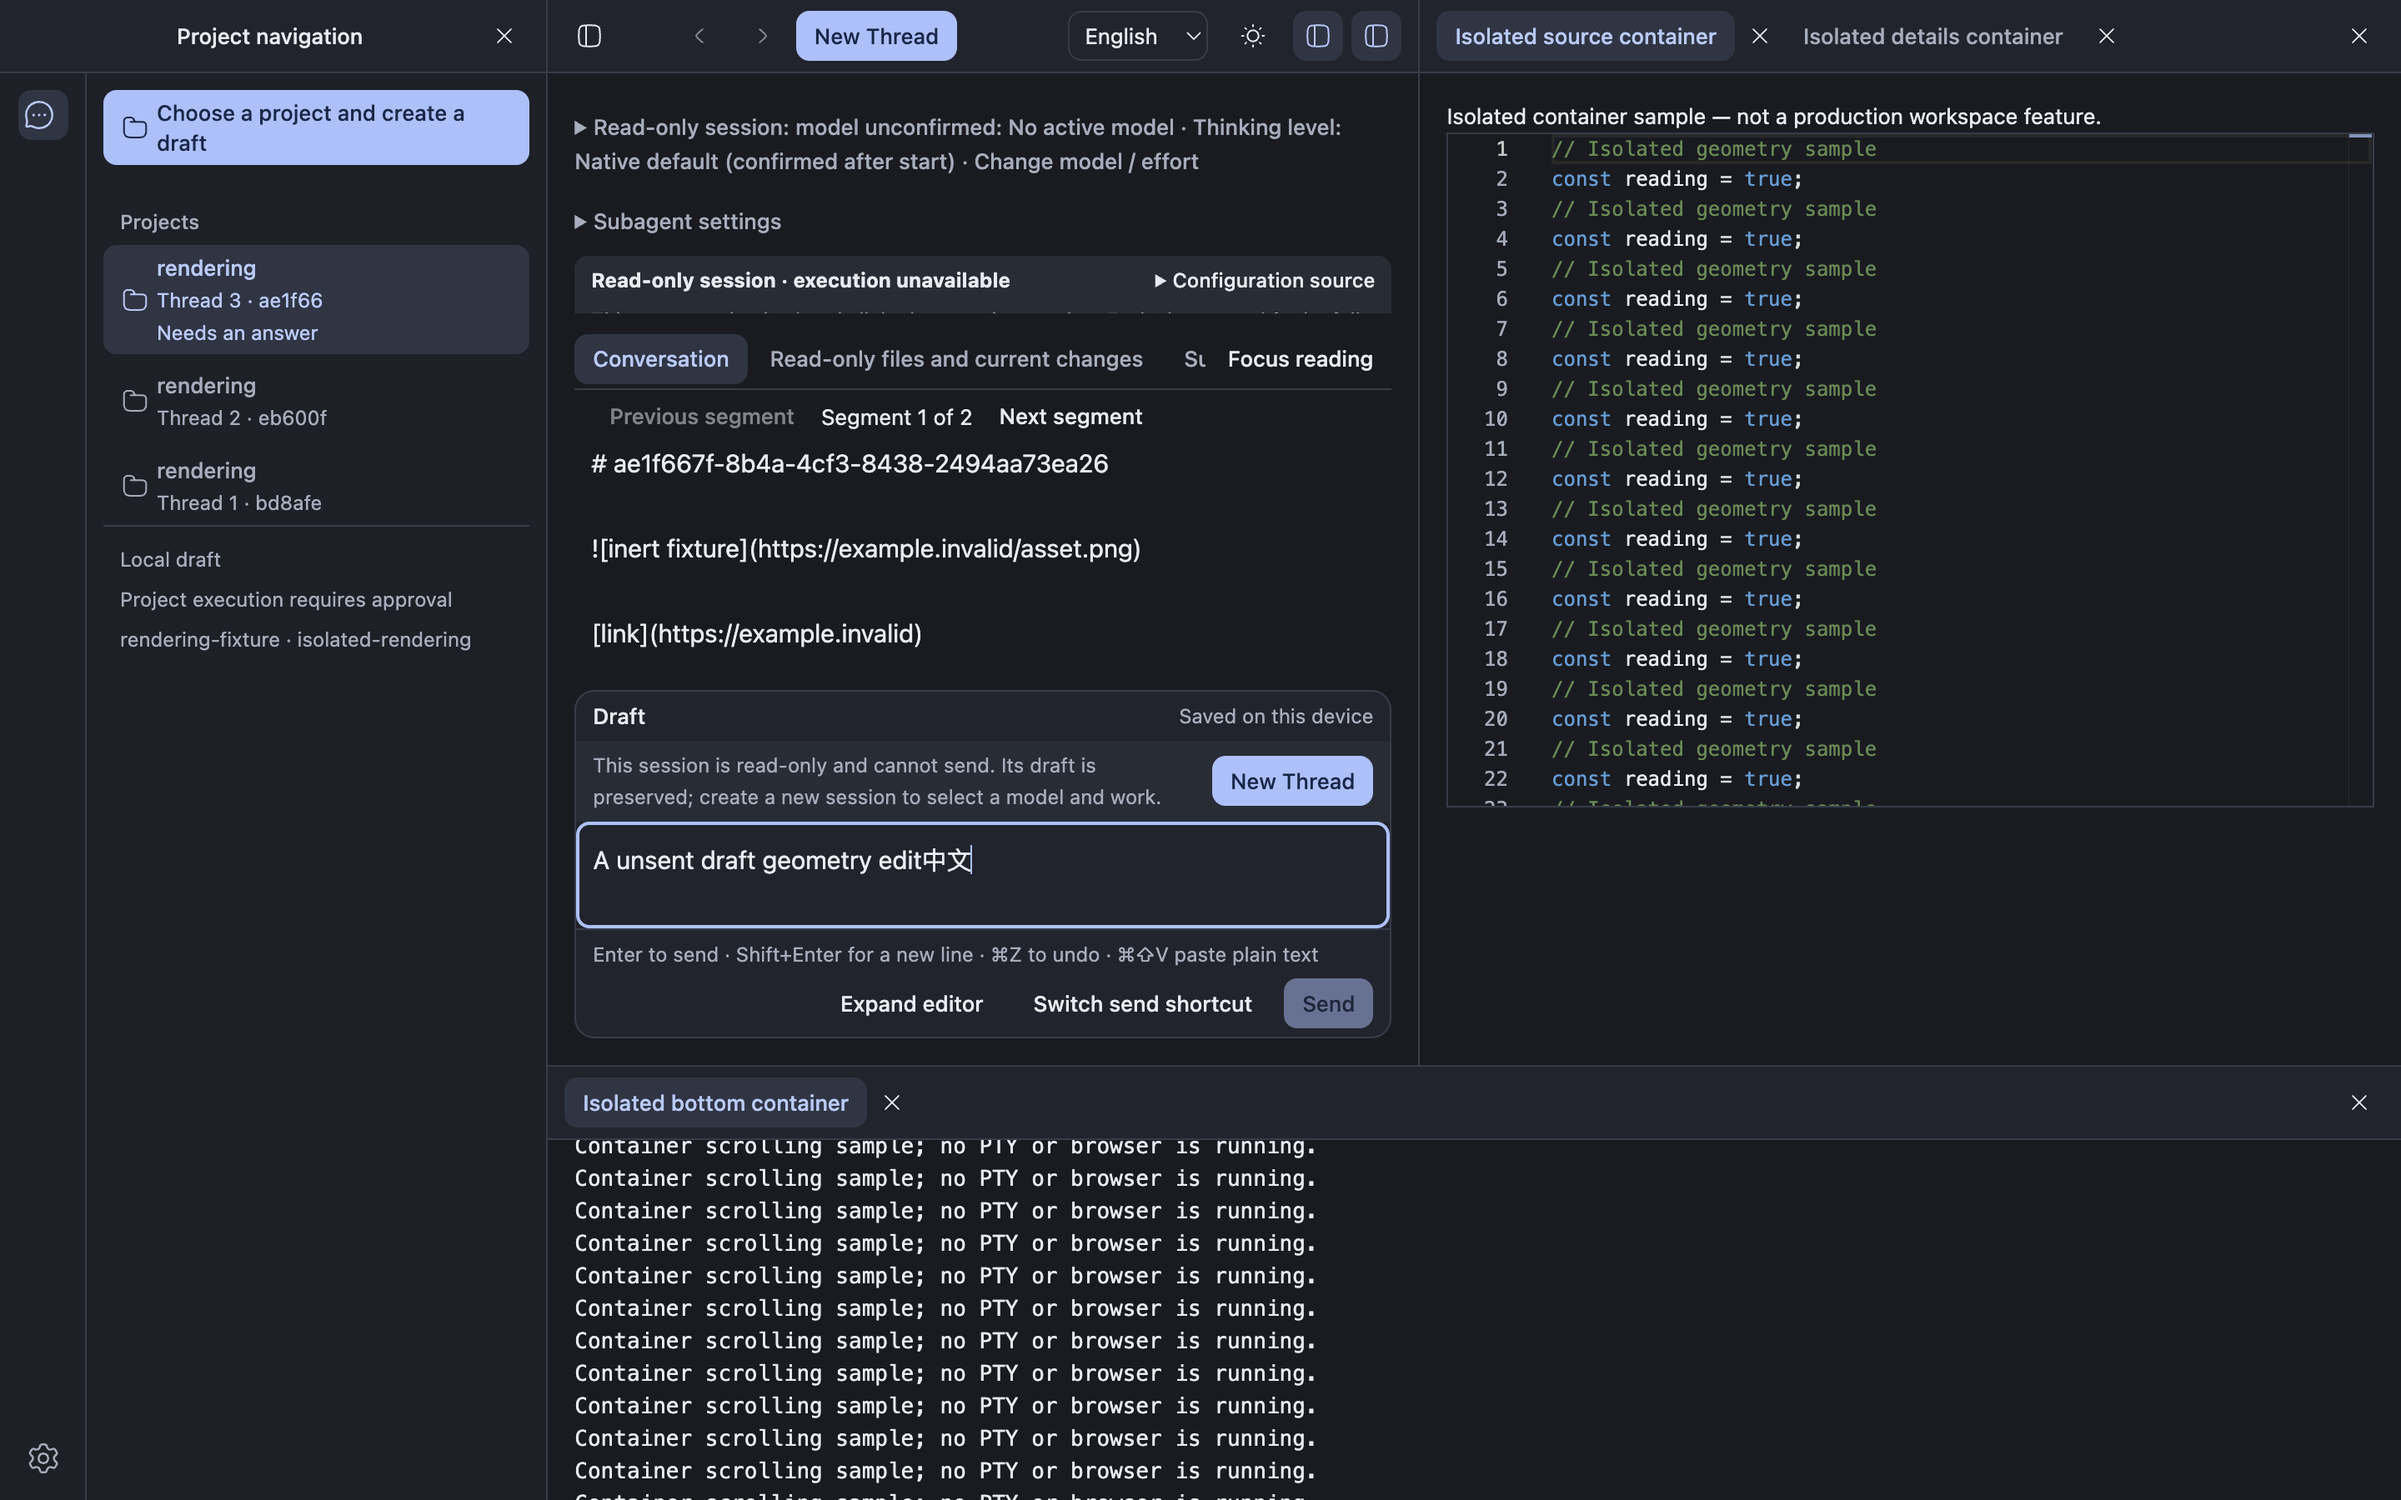
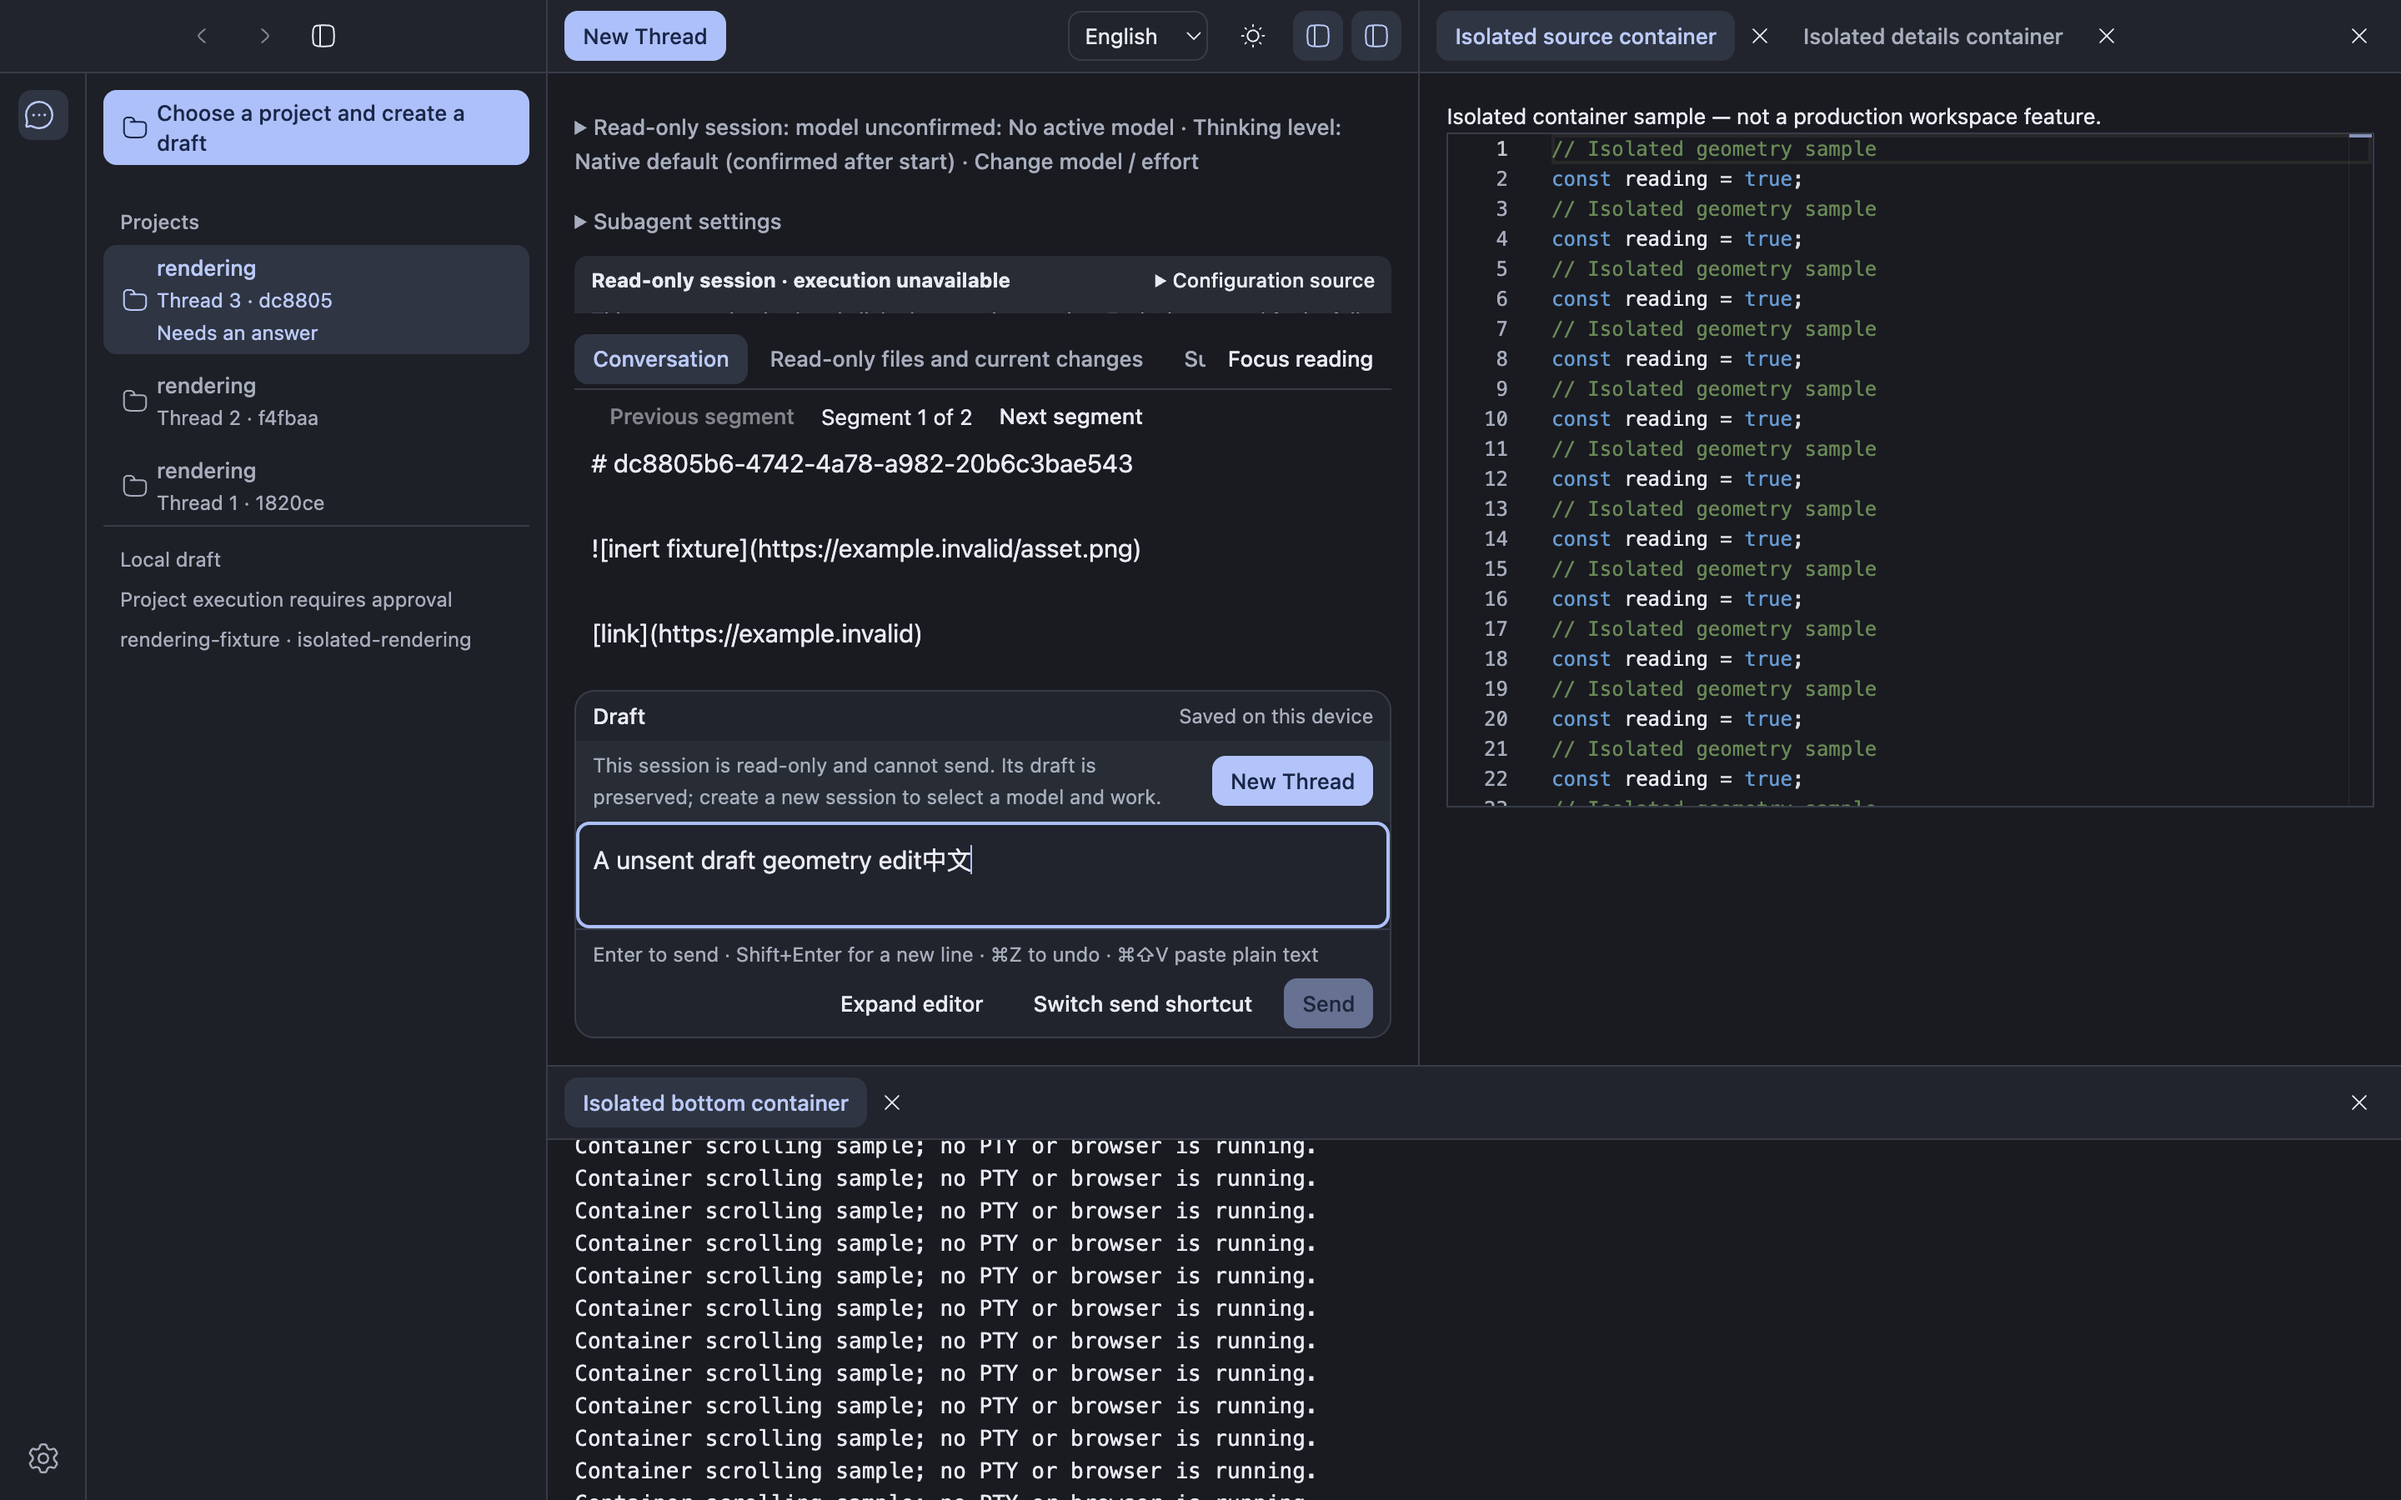
fix(workbench): place navigation beside macOS window controls

diff --git a/src/app/renderer/shell/layout/workbench-frame.tsx b/src/app/renderer/shell/layout/workbench-frame.tsx
@@ -37,6 +37,7 @@ export function WorkbenchFrame({
   settingsNavigation,
   settings,
   toolbar,
+  navigationControls,
   children,
   workspace,
   bottom,
@@ -46,6 +47,7 @@ export function WorkbenchFrame({
   settingsNavigation: ReactNode;
   settings: ReactNode;
   toolbar: ReactNode;
+  navigationControls: ReactNode;
   children: ReactNode;
   workspace?: WorkspaceHost;
   bottom?: WorkspaceHost;
@@ -160,6 +162,20 @@ export function WorkbenchFrame({
       target?.focus({ preventScroll: true });
     });
   };
+  const navigation = (
+    <div className="header-navigation">
+      {navigationControls}
+      <IconButton
+        ref={navigationTrigger}
+        label={t("app.layout.sidebarToggle")}
+        variant="ghost"
+        aria-expanded={geometry.sidebar.visible || overlay}
+        onClick={toggleSidebar}
+      >
+        <SidebarIcon />
+      </IconButton>
+    </div>
+  );
   return (
     <ConversationVisibilityContext value={conversation}>
       <div
@@ -221,20 +237,13 @@ export function WorkbenchFrame({
           label={t("app.layout.sidebarResize")}
           onCommit={commitLeft}
           auxiliary={
-            <aside className="primary-sidebar" data-layout-region="sidebar">
+            <aside
+              className="primary-sidebar"
+              data-layout-region="sidebar"
+              aria-label={t("app.layout.sidebar")}
+            >
               <div className="panel-header">
-                <strong>
-                  {settingsOpen
-                    ? t("app.layout.settings")
-                    : t("app.layout.sidebar")}
-                </strong>
-                <IconButton
-                  label={t("app.layout.close")}
-                  variant="ghost"
-                  onClick={() => model.toggle("sidebar")}
-                >
-                  <CloseIcon />
-                </IconButton>
+                {geometry.sidebar.visible && navigation}
               </div>
               <div className="sidebar-scroll">{sidebarContent}</div>
             </aside>
@@ -284,15 +293,7 @@ export function WorkbenchFrame({
             >
               <div className="conversation-surface">
                 <div className="panel-header conversation-header">
-                  <IconButton
-                    ref={navigationTrigger}
-                    label={t("app.layout.sidebarToggle")}
-                    variant="ghost"
-                    aria-expanded={geometry.sidebar.visible || overlay}
-                    onClick={toggleSidebar}
-                  >
-                    <SidebarIcon />
-                  </IconButton>
+                  {!geometry.sidebar.visible && navigation}
                   {toolbar}
                   {!!workspace?.tabs.length && (
                     <IconButton

diff --git a/src/app/renderer/shell/preference-toolbar.tsx b/src/app/renderer/shell/preference-toolbar.tsx
@@ -10,6 +10,14 @@ import type { AppModel } from "../wiring/model";
 import { ConversationVisibilityContext } from "./layout/conversation-visibility";
 import { NavigationHistory } from "./navigation-history";
 
+export function ThreadNavigationControls({ model }: { model: AppModel }) {
+  const busy = useStore(
+    model.stateStore,
+    (state) => state.kind === "ready" && state.threadTransition === "unknown",
+  );
+  return <NavigationHistory disabled={busy} />;
+}
+
 export function PreferenceToolbar({ model }: { model: AppModel }) {
   const { reveal } = useContext(ConversationVisibilityContext);
   const hasThread = useStore(
@@ -29,7 +37,6 @@ export function PreferenceToolbar({ model }: { model: AppModel }) {
   );
   return (
     <header className="toolbar">
-      <NavigationHistory disabled={busy} />
       <Button
         variant="default"
         disabled={busy || !hasThread}

diff --git a/src/app/renderer/shell/application-layout.tsx b/src/app/renderer/shell/application-layout.tsx
@@ -15,7 +15,10 @@ import {
 import { Diagnostics } from "./diagnostics";
 import { WorkbenchHostsContext } from "./layout/hosts-context";
 import { WorkbenchFrame } from "./layout/workbench-frame";
-import { PreferenceToolbar } from "./preference-toolbar";
+import {
+  PreferenceToolbar,
+  ThreadNavigationControls,
+} from "./preference-toolbar";
 import { ProjectThreads } from "./project-threads";
 import { ThreadNotice } from "./thread-notice";
 
@@ -77,6 +80,7 @@ function ReadyWorkbench({ model, children }: ApplicationLayoutProps) {
           </>
         }
         toolbar={<PreferenceToolbar model={model} />}
+        navigationControls={<ThreadNavigationControls model={model} />}
         settingsNavigation={<SettingsNavigation />}
         settings={<SettingsSurface model={model} />}
       >

diff --git a/src/app/renderer/styles/workbench.css b/src/app/renderer/styles/workbench.css
@@ -125,6 +125,13 @@
     padding: var(--layout-gap);
     scrollbar-gutter: stable;
   }
+  .header-navigation,
+  .header-navigation > .flex {
+    display: flex;
+    flex-shrink: 0;
+    align-items: center;
+    gap: calc(var(--layout-gap) / 2);
+  }
   .conversation-body {
     flex: 1;
     min-height: 0;

diff --git a/.scratch/codex-workbench-ui/validation.md b/.scratch/codex-workbench-ui/validation.md
@@ -6,7 +6,7 @@
 
 - `pnpm check`：通过；806行为测试通过、2项既有可选原生smoke跳过；35架构测试与89 tooling测试通过。类型、Biome、设计、i18n、设计/源码边界、架构、文档、结构、状态门禁通过。
 - `pnpm lint:interaction`：通过。`pnpm validate:interaction` 实际Electron通过；当前统一默认尺寸，两主题、Portal、Monaco/Diff光标、选择、复制和阅读区段原生点击。该脚本的正式API不变；证据另存本目录，历史证据保留。
-- `node validation/m2/workbench.mjs`：47项通过，[原始结果](evidence/native.json)。实际Electron窗口1440×900、720×540、1920×1080；三边拖拽/阈值收起/显式恢复/取消无保存/键盘保存、缩窗不覆盖偏好、标签键盘与关闭焦点、独立底部滚动、主题颜色角色传播；原Tiptap/Thread controller/阅读viewport/Monaco实例保持；撤销重做、Chromium合成输入、设置往返阅读坐标、长草稿与中文最小窗口预算。补充custom header从原生内容顶端开始、三边收起回焦、设置期间未读保留/一级导航提示、通知打开会话、大窗口WorkArea不限正文宽度；47条记录含一次CDP输入到下一rAF的耗时采样，该采样不能证明长时帧率。
+- `node validation/m2/workbench.mjs`：48项通过，[原始结果](evidence/native.json)。实际Electron窗口1440×900、720×540、1920×1080；三边拖拽/阈值收起/显式恢复/取消无保存/键盘保存、缩窗不覆盖偏好、标签键盘与关闭焦点、独立底部滚动、主题颜色角色传播；原Tiptap/Thread controller/阅读viewport/Monaco实例保持；撤销重做、Chromium合成输入、设置往返阅读坐标、长草稿与中文最小窗口预算。补充custom header从原生内容顶端开始、三边收起回焦、设置期间未读保留/一级导航提示、通知打开会话、大窗口WorkArea不限正文宽度；48条记录含一次CDP输入到下一rAF的耗时采样，该采样不能证明长时帧率。
 - Impeccable detect：本轮新增外壳/控件与token无主要发现，[扫描结果](evidence/design-scan.json)。
 
 右/底样本只在validation/m2/workbench.html隔离入口注册，生产无内容时关闭；样本Monaco来自现有只读适配器，底部只是滚动文字，不是PTY。截图production-*指正式App组件但仍使用隔离业务数据，不能当真实账户/provider证据。isolated-*另外展示测试宿主。
@@ -20,3 +20,5 @@
 ## 覆盖边界
 
 本页是工程/隔离GUI证据。真实包与固定官方SDK、macOS标题栏控件和物理拖动仍在04验证。Chromium composition覆盖合成事件，macOS系统输入法候选窗尚未覆盖；连续流式大历史的长时拖拽帧率与低端设备性能未测，资源未重建不等于流畅度证明。没有运行用户真实账户或计费请求；未知提交不重发，旧native session冷恢复仍只读。用户试用/认可单独维护。
+
+用户截图对应的导航位置断言 `navigation-controls-follow-native-window-controls` 在修复前返回false，修复后通过：后退、前进、侧栏开关顺序位于macOS安全区右侧，左栏顶端无区域标题，主区不重复历史控件；收起后的恢复回焦检查继续通过。

diff --git a/.scratch/codex-workbench-ui/review.md b/.scratch/codex-workbench-ui/review.md
@@ -1,9 +1,11 @@
 # A 基础布局双轴审查
 
-初次独立只读审查固定范围37e1a62b889fdfaa1db274b60bac69b98d54d23c…8823a3b76544bfbdd8a5be1511caf2baa0e48c9e，实际merge-base等于base。两个独立subagent分别覆盖Spec和Standards；主Agent核实后修复，正在固定新输入复核。
+初次独立只读审查固定范围37e1a62b889fdfaa1db274b60bac69b98d54d23c…8823a3b76544bfbdd8a5be1511caf2baa0e48c9e，实际merge-base等于base。两个独立subagent分别覆盖Spec和Standards；主Agent核实后修复；两个独立审查分别复核8823a3b…31f76a7，均通过，无新增高价值问题。
 
 - Spec P1：设置隐藏会话但注意力仍上报visible/seen，通知打开不切回会话。新增隐藏与通知回归确实失败；改为同一shell可见性context，Attention按真实可见状态上报、已通过原导航准入的显式通知打开才reveal；一级导航显示真实未读提示，窗口业务政策不变。25项相关测试和实际Electron隐藏期间未读/通知打开检查通过。
 - Spec P2：旧app.css同layer的.work-content max-width覆盖新规则。移除旧整区限宽，正文/Composer限宽保留；大窗口实际Electron断言WorkArea填满主区域且Composer不超896px通过。该修复前未单独跑该断言红灯，依据是固定源码与CSS覆盖顺序。
 - Standards P2：分隔条是区域外的sibling，折叠不回恢复入口。实际Electron左侧阈值关闭焦点断言失败；补充shell焦点区域跟踪（包括三条separator），三个阈值折叠回焦均通过。
 
 用户随后明确custom header要求，已补Main hiddenInset、原生控件安全区、空白drag/交互no-drag、启动状态拖动区；Main原关闭/草稿保存协议继续通过。完整check806行为/35架构/89tooling通过。该新增差异也纳入独立复核；实际macOS物理拖动仍由交付验证记录证明。
+
+2026-10-07截图补充：原生控件右侧改为后退/前进/侧栏开关，删除左侧区域名称与重复关闭按钮。窄窗或侧栏收起时同一组控件放在主区最左侧安全区；原Router准入与业务资源不变。新Electron位置断言先失败后通过，共48条记录。该新增差异另行冻结复核。
